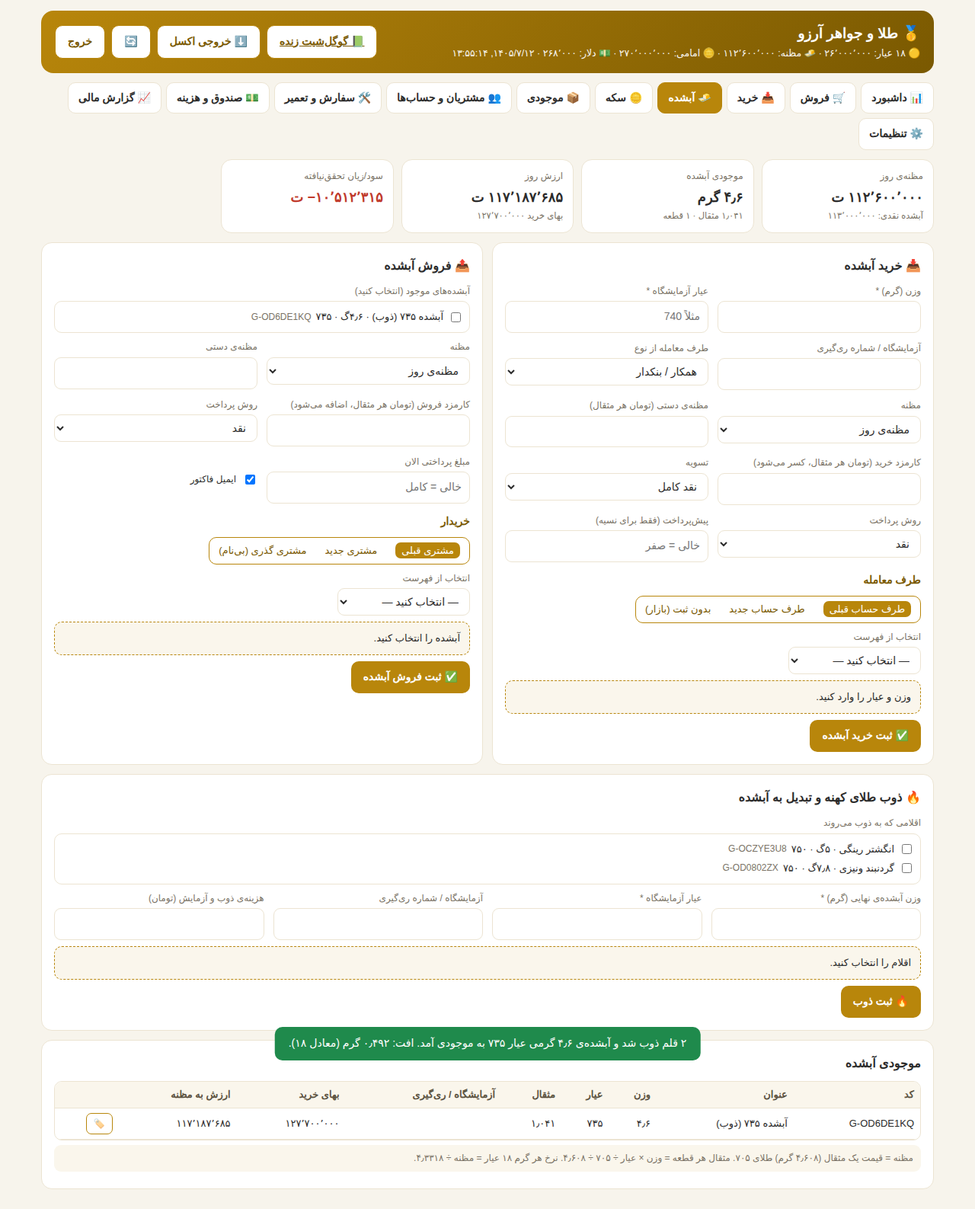
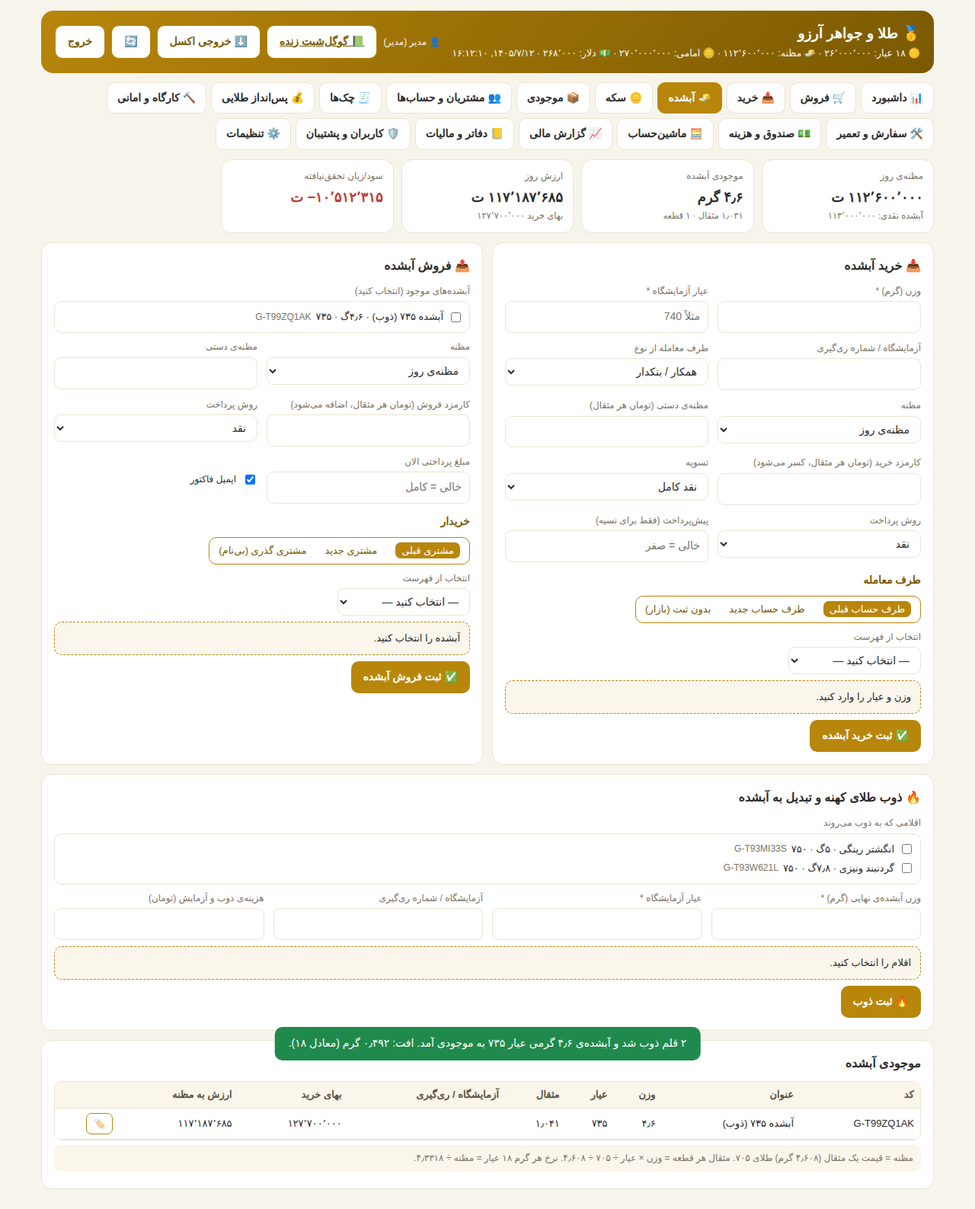
Level 3 v4 docs: users & roles, backup, cheques, savings, portal, workshop, SMS placeholder, owner bot
Claude-Session: https://claude.ai/code/session_015QusSK3znzvYwsVRtgf6jv

diff --git a/projects/goldsmith/level3-gold-shop-management/README.md b/projects/goldsmith/level3-gold-shop-management/README.md
@@ -3,10 +3,11 @@
 > **Goldsmith track · Level 3 (Advanced)** — builds on **[Level 1: Live Price Bot](../level1-live-gold-price-bot)** and **[Level 2: Invoice Assistant](../level2-invoice-and-fee-assistant)**.
 > **مسیر طلافروش · سطح ۳ (پیشرفته)** — ادامهی **[سطح ۱: ربات قیمت لحظهای](../level1-live-gold-price-bot)** و **[سطح ۲: دستیار فاکتور](../level2-invoice-and-fee-assistant)**.
 
-`#n8n` `#gold_shop` `#inventory_management` `#real_profit` `#erp` `#admin_panel` `#google_sheets` `#excel` `#melted_gold` `#gold_coins` `#installments` `#barcode` `#سیستم_مدیریت_طلافروشی` `#مدیریت_موجودی` `#سود_واقعی` `#حساب_همکار` `#آبشده` `#مظنه` `#سکه` `#فروش_اقساطی` `#طلافروش` `#حسابداری_طلا` `#اتوماسیون` `#iran` `#level3`
+`#n8n` `#gold_shop` `#inventory_management` `#real_profit` `#erp` `#admin_panel` `#google_sheets` `#excel` `#melted_gold` `#gold_coins` `#installments` `#barcode` `#cheques` `#gold_savings` `#customer_portal` `#backup` `#roles` `#moadian` `#silver` `#سیستم_مدیریت_طلافروشی` `#مدیریت_موجودی` `#سود_واقعی` `#حساب_همکار` `#آبشده` `#مظنه` `#سکه` `#فروش_اقساطی` `#چک` `#پسانداز_طلایی` `#کارگاه` `#امانی` `#سامانه_مودیان` `#نقره` `#طلافروش` `#حسابداری_طلا` `#اتوماسیون` `#iran` `#level3`
 
 > 🔗 **Shop website | سایت فروشگاه:** **https://n8n.aifardainstitute.ir/webhook/gold-shop** → button **«🔐 پنل مدیریت فروشگاه»**
-> 🔗 **Admin panel | پنل مدیریت:** **https://n8n.aifardainstitute.ir/webhook/gold-admin** (password-protected · با رمز ورود؛ رمز را خود مدیر در «تنظیمات» عوض میکند)
+> 🔗 **Admin panel | پنل مدیریت:** **https://n8n.aifardainstitute.ir/webhook/gold-admin** (username + password · نام کاربری و رمز؛ هر کاربر نقش خودش را دارد)
+> 🔗 **Customer portal | پرتال مشتری:** `…/webhook/gold-customer?c=…&t=…` (personal read-only link · لینک اختصاصی فقطخواندنی)
 >
 > 🔒 **The workflow file is private.** This page shows the schematic, screenshots and docs only.
 > 🔒 **فایل ورکفلو خصوصی است.** این صفحه فقط شماتیک، تصاویر و مستندات را نشان میدهد.
@@ -18,16 +19,21 @@
 ```mermaid
 flowchart LR
   W["🌐 Shop website / سایت<br/>(Level 1 + 2)"] -->|"🔐 button"| P["🖥 Admin panel / پنل مدیریت"]
-  P -->|"password (SHA-256) / رمز"| API["⚙ Admin API"]
+  P -->|"user + password → token / ورود با نقش"| API["⚙ Admin API<br/>roles · audit log · lockout"]
   API --> M["🟡 Live gold price / نرخ روز طلا"]
   API --> L["🧮 Business logic / منطق کسبوکار<br/>buy · sell · return · ledger · real profit"]
-  L --> DB[("🗄 Database / پایگاه داده<br/>inventory · transactions · customers · orders · settings")]
+  L --> DB[("🗄 Database / پایگاه داده<br/>inventory · transactions · customers · orders<br/>cheques · users · audit · closings · settings")]
   L --> GS["📗 Google Sheet (live)<br/>same columns as Excel export"]
   L --> G["📧 Invoice email / ایمیل فاکتور"]
   P --> X["⬇ Excel export (instant) / خروجی اکسل لحظهای"]
   T1["⏰ Daily 09:00"] --> O["🎉 Occasions / مناسبتها"] --> E["📧 Greeting email / ایمیل تبریک"]
   O --> TG1["📱 Owner reminder / یادآوری به مالک"]
   T2["⏰ Daily 21:00"] --> R["📊 Daily report / گزارش روزانه"] --> TG2["📱 Owner Telegram / تلگرام مالک"]
+  T3["⏰ Nightly 23:45"] --> B["💾 Backup JSON / پشتیبان"] --> TG2
+  B --> E
+  DB --> CP["🔗 Customer portal / پرتال مشتری"]
+  DB --> OB["👑 Owner bot (Level 1) / ربات مدیر"]
+  L -.-> SMS["✉ SMS (ready, off) / پیامک (آماده، خاموش)"]
 ```
 
 | 📊 Dashboard / داشبورد | 🧾 Multi-item invoice / فاکتور چندقلمی |
@@ -39,8 +45,14 @@ flowchart LR
 | ![inventory](docs/screenshots/inventory.png) | ![report](docs/screenshots/report.png) |
 | 🧈 **Melted gold (by mazaneh) & melting / آبشده و ذوب** | 🪙 **Coins: stock, avg cost, bubble / سکه** |
 | ![ab](docs/screenshots/ab.png) | ![coin](docs/screenshots/coin.png) |
-| 🏷 **Barcode labels / اتیکت بارکددار** | |
-| ![labels](docs/screenshots/labels.png) | |
+| 🏷 **Barcode labels / اتیکت بارکددار** | 🧾 **Cheques / چکها** |
+| ![labels](docs/screenshots/labels.png) | ![cheques](docs/screenshots/cheques.png) |
+| 💰 **Gold savings / پسانداز طلایی** | 🔨 **Workshop & consignment / کارگاه و امانی** |
+| ![savings](docs/screenshots/savings.png) | ![workshop](docs/screenshots/workshop.png) |
+| 🧮 **Price calculator / ماشینحساب** | 📒 **P&L, journal & tax export / دفاتر و مالیات** |
+| ![calc](docs/screenshots/calc.png) | ![books](docs/screenshots/books.png) |
+| 🛡 **Users, audit log & backup / کاربران و پشتیبان** | |
+| ![security](docs/screenshots/security.png) | |
 
 <sub>Screenshots use sample test data. / تصاویر با دادهی آزمایشی گرفته شدهاند.</sub>
 
@@ -71,11 +83,24 @@ flowchart LR
 - **Live Google Sheet + instant Excel export** — every write is mirrored to a Google Sheet; the Excel button downloads the same tabs and the same Persian column headers (RTL), plus a summary sheet.
 - **Owner-set password** — the owner sets and changes the panel password in *Settings*; only a salted SHA-256 hash is stored.
 
+### New in v4
+- **Users & roles** — owner / accountant / seller (sellers never see costs or profit); signed 12-hour login tokens; 5 wrong passwords → 15-minute lock; full **audit log** of who did what.
+- **Backup** — nightly 23:45 JSON backup to the owner's Telegram (and email); manual download and restore in the panel; secrets are never included.
+- **Cheques** — received / issued cheques with due dates, status (pending · cleared · bounced · endorsed), 7-day due list on the dashboard.
+- **Ounce & mazaneh calculator** — gold price from ounce × dollar, mazaneh ↔ gram, piece price with fee, profit, VAT and stones.
+- **Day close, journal & P&L** — counted cash vs. system, gold difference; double-entry style journal; monthly profit-and-loss statement.
+- **Consignment & workshop** — consignment pieces (paid to the supplier only after sale); gold issued to / received from makers with wage and loss, gold balance per workshop.
+- **Gold savings & customer portal** — customers save grams of gold and redeem later; each customer gets a private read-only link showing balance, savings, installments and recent purchases.
+- **SMS (placeholder)** — Kavenegar-ready messages for invoices, installments and occasions; **off** until an API key is entered in *Settings → SMS*.
+- **Owner Telegram bot** — `گزارش`, `موجودی`, `صندوق`, `بدهکاران`, `حساب <name>`, `اقساط`, `چک` from the Level 1 bot, owner-only.
+- **Tax (Moadian) Excel export** — monthly sales in the gold/jewelry layout with buyer national ID / economic code.
+- **Jewelry certificate**, **silver (925) items**, **charts & slow-moving stock**, **thermal 80 mm printing & label sizes**, **digital scale via Web Serial**, **branches** (per-branch stock and reports).
+
 ### Why a shop pays
 Inventory control and *real* profit are exactly what goldsmiths never know precisely — gold-price swings hide whether the shop earned from selling or just from the market moving. This system separates the two and keeps every customer's and supplier's money **and gold** balance straight.
 
 ### Tech
-n8n (webhooks + schedules) · n8n Data Tables (database) · single-page admin panel served by n8n · Google Sheets · SheetJS (Excel) · free live price feed · Gmail · Telegram.
+n8n (webhooks + schedules) · n8n Data Tables (database) · signed tokens & roles · Web Serial (scale) · single-page admin panel served by n8n · Google Sheets · SheetJS (Excel) · free live price feed · Gmail · Telegram.
 
 ---
 
@@ -103,6 +128,19 @@ n8n (webhooks + schedules) · n8n Data Tables (database) · single-page admin pa
 - **پیام در مناسبتها** — تولد و سالگرد ازدواج (شمسی): ایمیل تبریک ساعت ۹ صبح + یادآوری تلگرامی به مالک.
 - **گوگلشیت زنده + خروجی اکسل لحظهای** — هر ثبت همزمان در گوگلشیت نوشته میشود؛ دکمهی «خروجی اکسل» همان تبها و **همان ستونهای فارسی** (راستبهچپ) را بهعلاوهی برگهی خلاصهی گزارش دانلود میکند.
 - **رمز به انتخاب مدیر** — مدیر رمز پنل را در «تنظیمات» میگذارد و هر وقت بخواهد عوض میکند؛ فقط هش رمز (SHA-256 با نمک) ذخیره میشود.
+
+### تازههای نسخهی ۴
+- **🛡 کاربران و نقشها** — مدیر / حسابدار / فروشنده (فروشنده بها و سود را نمیبیند)؛ ورود با توکن ۱۲ ساعته؛ ۵ بار رمز اشتباه = ۱۵ دقیقه قفل؛ **گزارش فعالیت** همهی کاربران.
+- **💾 پشتیبانگیری** — هر شب ۲۳:۴۵ نسخهی کامل به تلگرام (و ایمیل) مالک؛ دانلود و بازیابی دستی در پنل؛ رمزها هرگز در پشتیبان نیستند.
+- **🧾 چکها** — چک دریافتی و پرداختی با سررسید و وضعیت (در انتظار · وصول · برگشتی · خرج شده)؛ چکهای ۷ روز آینده در داشبورد.
+- **🧮 ماشینحساب انس و مظنه** — نرخ طلا از انس × دلار، تبدیل مظنه به گرم، قیمت قطعه با اجرت، سود، مالیات و سنگ.
+- **📒 بستن صندوق، دفتر روزنامه و سود و زیان** — شمارش صندوق و مقایسه با سیستم، مغایرت طلا؛ دفتر روزنامه؛ صورت سود و زیان ماهانه.
+- **🔨 امانی و کارگاه** — کالای امانی (پول بنکدار بعد از فروش)؛ تحویل طلا به سازنده و دریافت کالا با اجرت و افت؛ ماندهی طلایی هر کارگاه.
+- **💰 پسانداز طلایی و پرتال مشتری** — مشتری گرمگرم طلا پسانداز میکند و بعداً خرید میکند؛ هر مشتری یک لینک اختصاصی فقطخواندنی دارد (مانده، پسانداز، اقساط، خریدها).
+- **✉ پیامک (جای خالی)** — پیام فاکتور، قسط و مناسبت آماده است (کاوهنگار)؛ تا وقتی کلید API در «تنظیمات ← پیامک» وارد نشود **خاموش** است.
+- **👑 ربات مدیر در تلگرام** — `گزارش`، `موجودی`، `صندوق`، `بدهکاران`، `حساب <نام>`، `اقساط`، `چک` از همان ربات سطح ۱، فقط برای مالک.
+- **🧾 خروجی مالیاتی (سامانهی مودیان)** — اکسل فروش ماهانه با الگوی طلا و جواهر و کد ملی/اقتصادی خریدار.
+- **گواهی جواهر**، **نقره (۹۲۵)**، **نمودار و کالای کمگردش**، **چاپ حرارتی ۸۰ میلیمتری و اندازهی اتیکت**، **خواندن ترازوی دیجیتال (Web Serial)**، **چند شعبه** (موجودی و گزارش هر شعبه).
 
 ### «مشتری قبلی / مشتری جدید / مشتری گذری» یعنی چه؟
 - **مشتری قبلی**: از فهرست انتخاب کنید؛ فروش به حساب او ثبت میشود (نسیه، سابقه، مناسبتها).

diff --git a/projects/goldsmith/level3-gold-shop-management/docs/setup.md b/projects/goldsmith/level3-gold-shop-management/docs/setup.md
@@ -8,12 +8,16 @@
 
 | Table | Columns |
 |---|---|
-| `gs_inventory` | `code, title, category, weight#, karat#, weight750#, buyRate18#, makingCost#, buyCost#, buyDay, supplier, status, soldTx, note, stoneCost#, cert` |
-| `gs_transactions` | `code, type, day, dateFa, itemCode, title, weight750#, rate18#, amount#, costBasis#, operatingProfit#, holdingGain#, realProfit#, customerCode, customerName, note, payMethod, vat#, invoice, grams#, category, voided, qty#` |
-| `gs_customers` | `code, name, phone, email, telegramChatId, birthday, anniversary, notes, kind` |
+| `gs_inventory` | `code, title, category, weight#, karat#, weight750#, buyRate18#, makingCost#, buyCost#, buyDay, supplier, status, soldTx, note, stoneCost#, cert, consign, supplierCode, metal, branch, photoUrl, stones` |
+| `gs_transactions` | `code, type, day, dateFa, itemCode, title, weight750#, rate18#, amount#, costBasis#, operatingProfit#, holdingGain#, realProfit#, customerCode, customerName, note, payMethod, vat#, invoice, grams#, category, voided, qty#, feeAmt#, profitAmt#, branch, user` |
+| `gs_customers` | `code, name, phone, email, telegramChatId, birthday, anniversary, notes, kind, nationalId, economicCode, postalCode, address` |
 | `gs_orders` | `code, dateFa, customerCode, customerName, phone, kind, description, weight#, karat#, estimate#, deposit#, dueDate, status, note` |
 | `gs_settings` | `key, value` |
 | `gs_installments` | `code, invoice, customerCode, customerName, phone, n#, count#, dueDate, amount#, paid#, status, paidDate` |
+| `gs_users` 🆕 | `code, name, role, salt, hash, active, branch` |
+| `gs_audit` 🆕 | `code, at, dateFa, time, user, action, summary` |
+| `gs_cheques` 🆕 | `code, dir, partyCode, partyName, bank, number, sayad, amount#, dueDate, status, txCode, dateFa, settledDate, spentTo, note, branch` |
+| `gs_closings` 🆕 | `code, dateFa, time, user, branch, expected#, counted#, diff#, goldSystem#, goldCounted#, goldDiff#, detail, note` |
 | `invoices` | فاکتورهای سایت (سطح ۲) — فقط خوانده میشود |
 
 </div>
@@ -22,25 +26,78 @@
 
 ## گام ۲ — گوگلشیت
 یک Spreadsheet با این تبها (ردیف اول = عنوان ستونها، دقیقاً مثل خروجی اکسل):
-`موجودی` · `تراکنشها` · `مشتریان و همکاران` · `سفارشها` · `اقساط` · `فاکتورهای سایت`
+`موجودی` · `تراکنشها` · `مشتریان و همکاران` · `سفارشها` · `اقساط` · `چکها` · `بستن صندوق` · `فاکتورهای سایت`
 در نودهای «Sheet: …» شناسهی همین فایل را بگذار. ستون مشترک برای بهروزرسانی: `کد`.
 
 ## گام ۳ — Import و کردنشیالها
 - فایل ورکفلو را Import کن.
 - **Google Sheets** ← نودهای «Sheet: …»
 - **Gmail** ← نودهای ایمیل فاکتور و تبریک
-- **Telegram** ← یادآوری مناسبتها و گزارش روزانه
+- **Telegram** ← یادآوری مناسبتها، گزارش روزانه و پشتیبان شبانه
+- نودهای پیامک (کاوهنگار) کردنشیال نمیخواهند؛ کلید را در خود پنل وارد میکنی.
 - منبع قیمت رایگان است و کردنشیال نمیخواهد.
 - Settings ← Timezone = `Asia/Tehran`
 
-## گام ۴ — فعالسازی و رمز
+## گام ۴ — فعالسازی، ورود و کاربران
 1. Save → Publish.
-2. لینک پنل `https://<آدرس-n8n>/webhook/gold-admin` را باز کن و با **رمز اولیه** (در نود Check Key) وارد شو.
-3. تب **⚙ تنظیمات** ← «تغییر رمز ورود»: رمز دلخواه خودت را بگذار. از این لحظه رمز اولیه کار نمیکند.
-4. در همان تب: نام فروشگاه، تلفن، آدرس، ایمیل مالک، Chat ID تلگرام، درصدهای پیشفرض اجرت/سود/مالیات/افت.
+2. لینک پنل `https://<آدرس-n8n>/webhook/gold-admin` را باز کن. نام کاربری: `admin`، رمز: **رمز اولیه** (در نود Check Key) — یا اگر قبلاً رمز گذاشتهای، همان رمز خودت. با اولین ورود، کاربر «مدیر» ساخته میشود.
+3. تب **⚙ تنظیمات** ← «تغییر رمز ورود»: رمز دلخواه خودت را بگذار.
+4. در همان تب: نام فروشگاه، تلفن، آدرس، ایمیل مالک، Chat ID تلگرام، درصدهای پیشفرض، اطلاعات مالیاتی، شعبهها.
+5. تب **🛡 کاربران و پشتیبان** ← کاربر تازه: نام کاربری انگلیسی، نقش و رمز.
+
+| نقش | چه میبیند |
+|---|---|
+| مدیر | همه چیز + کاربران، تنظیمات، بازیابی پشتیبان |
+| حسابدار | همهی ثبتها و گزارشها؛ بدون کاربران و تنظیمات |
+| فروشنده | فروش، خرید، مشتری، اتیکت؛ بهای تمامشده و سود را **نمیبیند** |
+
+- ورود ۱۲ ساعت معتبر است. ۵ بار رمز اشتباه ← آن کاربر ۱۵ دقیقه قفل میشود.
+- همهی کارها در «گزارش فعالیت کاربران» ثبت میشود.
 
 ### رمز را فراموش کردم
-در n8n ← Data Tables ← `gs_settings` ← ردیفهای `admin_hash` و `admin_salt` را پاک کن. رمز اولیه دوباره فعال میشود؛ وارد شو و رمز تازه بگذار.
+- اگر کاربر «مدیر» دیگری داری: او در تب «کاربران» رمز تو را عوض میکند.
+- اگر نه، در n8n ← Data Tables:
+  1. **همهی** ردیفهای `gs_users` را پاک کن.
+  2. در `gs_settings` ردیفهای `admin_hash` و `admin_salt` را پاک کن.
+  3. با `admin` و رمز اولیه (نود Check Key) وارد شو، فوراً رمز تازه بگذار و کاربرهای دیگر را دوباره بساز.
+
+## گام ۴٫۵ — امکانات تازه
+### 💾 پشتیبان
+- هر شب ساعت **۲۳:۴۵** یک فایل JSON کامل به تلگرام مالک (و اگر «ایمیل مالک» پر باشد، به ایمیل) میرود.
+- در تب «کاربران و پشتیبان»: «دانلود پشتیبان» و «بازیابی از فایل».
+- رمزها، کلیدها و کلید پیامک هرگز در پشتیبان نیستند.
+
+### ✉ پیامک (فعلاً خاموش)
+جای آن آماده است. هر وقت خواستی:
+1. در [کاوهنگار](https://kavenegar.com) ثبتنام کن و **API Key** و **شمارهی فرستنده** بگیر.
+2. پنل ← **⚙ تنظیمات ← پیامک**: کلید API و شمارهی فرستنده را بنویس و تیک **«پیامک فعال باشد»** را بزن ← «ذخیره تنظیمات».
+3. از این به بعد پیامک فاکتور، یادآوری قسط، برگشت چک و تبریک تولد خودکار میرود. با برداشتن تیک، دوباره خاموش میشود.
+
+### 🔗 پرتال مشتری
+- تب «مشتریان و حسابها» ← دکمهی **🔗 پرتال** کنار هر مشتری ← لینک را کپی کن و برایش بفرست.
+- مشتری فقط میبیند: مانده، پسانداز طلایی، اقساط، خریدهای اخیر و قیمت روز. چیزی را نمیتواند تغییر دهد.
+- «باطلکردن همهی لینکهای پرتال» همهی لینکهای قبلی را از کار میاندازد.
+
+### 👑 ربات مدیر (همان ربات سطح ۱)
+فقط Chat ID مالک (تنظیمات) جواب میگیرد:
+
+| دستور | جواب |
+|---|---|
+| `گزارش` | فروش، سود واقعی، هزینه و سود خالص امروز |
+| `موجودی` | طلای ملکی به تفکیک عیار، امانی، نقره، سکه |
+| `صندوق` | گردش وجه امروز به تفکیک روش پرداخت |
+| `بدهکاران` | ۱۵ بدهکار بزرگ |
+| `حساب علی` | ماندهی ریالی و طلایی یک مشتری/همکار |
+| `اقساط` | اقساط معوق و ۷ روز آینده |
+| `چک` | چکهای ۷ روز آینده |
+| `مدیر` | راهنما |
+
+### 🧾 خروجی مالیاتی
+تب «دفاتر و مالیات» ← ماه را انتخاب کن ← «دریافت فایل اکسل مالیاتی». اتصال مستقیم به سامانهی مودیان به گواهی امضای فروشگاه نیاز دارد؛ فعلاً فایل را در کارپوشه بارگذاری کن.
+
+### ⚖ ترازو و 🖨 چاپ حرارتی
+- ترازوی دیجیتال با کابل USB/سریال: در فرم خرید دکمهی **⚖** (فقط Chrome یا Edge روی کامپیوتر).
+- چاپ ۸۰ میلیمتری فاکتور و اندازهی اتیکت (۵۰×۳۰، ۴۰×۲۵، …) در «تنظیمات».
 
 ## گام ۵ — لینک در سایت
 در سایت فروشگاه (سطح ۱+۲) دکمهی **«🔐 پنل مدیریت فروشگاه»** به همین لینک وصل است.
@@ -89,6 +146,11 @@ coins    : moving-average cost per coin type; realProfit = price×qty − avg×q
 | buy (gold settlement) | − making | − w750 |
 | receive / deposit | − amount | − grams |
 | pay | + amount | + grams |
+| wsOut (gold to workshop) | | + grams |
+| wsIn (piece from workshop) | − wage | − grams |
+| wsLoss (workshop loss) | | − grams |
+| goldSave (savings) | | − grams |
+| goldRedeem | − amount (if to credit) | + grams |
 
 </div>
 
@@ -98,7 +160,11 @@ coins    : moving-average cost per coin type; realProfit = price×qty − avg×q
 
 | مشکل | راهحل |
 |---|---|
-| «رمز اشتباه است» | رمز را در تنظیمات عوض کردهای؟ اگر فراموش شده، بخش «رمز را فراموش کردم» |
+| «نام کاربری یا رمز اشتباه است» | نام کاربری مدیر `admin` است. اگر رمز فراموش شده، بخش «رمز را فراموش کردم» |
+| «حساب موقتاً قفل است» | ۱۵ دقیقه صبر کن، یا مدیر در `gs_settings` ردیف `lock_<user>` را پاک کند |
+| پیامک نرفت | تیک «پیامک فعال باشد» و کلید API در «تنظیمات ← پیامک»؛ اعتبار حساب کاوهنگار |
+| پشتیبان شبانه نیامد | Chat ID مالک و کردنشیال تلگرام |
+| ترازو وصل نمیشود | فقط Chrome/Edge روی کامپیوتر؛ اجازهی پورت سریال |
 | نرخ روز صفر است | دسترسی سرور به `raw.githubusercontent.com`؛ موقتاً نرخ را «دستی» وارد کن |
 | ردیف در گوگلشیت نیامد | کردنشیال Google Sheets و نام تبها |
 | ایمیل فاکتور/تبریک نرفت | کردنشیال Gmail یا ایمیل مشتری |

diff --git a/README.md b/README.md
@@ -15,7 +15,7 @@
 |---|---|---|
 | ۱ | [Live Gold/Coin/Dollar Price Bot](projects/goldsmith/level1-live-gold-price-bot) | ربات قیمت لحظهای طلا، سکه و دلار + هشدار قیمت |
 | ۲ | [Invoice & Making-Fee Assistant](projects/goldsmith/level2-invoice-and-fee-assistant) | دستیار صدور فاکتور و محاسبهی اجرت (فرم وب) |
-| ۳ | [Gold Shop Management System](projects/goldsmith/level3-gold-shop-management) | سیستم مدیریت طلافروشی: موجودی، خرید و فروش، مشتریان، سود واقعی و گزارش مالی |
+| ۳ | [Gold Shop Management System](projects/goldsmith/level3-gold-shop-management) | سیستم مدیریت طلافروشی: موجودی، خرید و فروش، مشتریان، سود واقعی، چک، پسانداز طلایی، کارگاه، چند کاربر و پشتیبانگیری |
 
 </div>
 
@@ -27,9 +27,10 @@
 |---|---|---|
 | 🌐 | [https://n8n.aifardainstitute.ir/webhook/gold-shop](https://n8n.aifardainstitute.ir/webhook/gold-shop) | سایت طلافروشی: **قیمت لحظهای** (سطح ۱) + **صدور فاکتور** (سطح ۲) + دکمهی **پنل مدیریت** (سطح ۳) در یک صفحه |
 | 🧾 | [https://n8n.aifardainstitute.ir/form/gold-invoice](https://n8n.aifardainstitute.ir/form/gold-invoice) | فرم صدور فاکتور (سطح ۲) |
-| 🖥 | [https://n8n.aifardainstitute.ir/webhook/gold-admin](https://n8n.aifardainstitute.ir/webhook/gold-admin) | پنل مدیریت طلافروشی (سطح ۳) — با رمز ورود 🔐 (رمز را مدیر خودش میگذارد و عوض میکند)؛ آبشده، سکه، فروش اقساطی، اتیکت بارکددار، خروجی اکسل لحظهای |
+| 🖥 | [https://n8n.aifardainstitute.ir/webhook/gold-admin](https://n8n.aifardainstitute.ir/webhook/gold-admin) | پنل مدیریت طلافروشی (سطح ۳) — ورود با نام کاربری و رمز 🔐 (مدیر / حسابدار / فروشنده)؛ چک، پسانداز طلایی، کارگاه و امانی، دفاتر و خروجی مالیاتی، آبشده، سکه، فروش اقساطی، اتیکت بارکددار، خروجی اکسل لحظهای |
 | 📗 | گوگلشیت زنده (خصوصی) | همهی ثبتهای سطح ۲ و ۳ با همان ستونهای خروجی اکسل |
-| 🤖 | ربات تلگرام قیمت (سطح ۱) | پیام `قیمت` به ربات → قیمت طلا، سکه و ارز |
+| 🔗 | پرتال مشتری (سطح ۳) | هر مشتری لینک اختصاصی خودش را دارد: مانده، پسانداز طلایی، اقساط |
+| 🤖 | ربات تلگرام قیمت (سطح ۱) | پیام `قیمت` به ربات → قیمت طلا، سکه و ارز؛ مالک با `گزارش`، `موجودی`، `صندوق` … گزارش فروشگاه را میگیرد |
 
 </div>
 

diff --git a/projects/goldsmith/level1-live-gold-price-bot/README.md b/projects/goldsmith/level1-live-gold-price-bot/README.md
@@ -19,6 +19,7 @@
 - **Telegram query bot** — user sends `قیمت` → replies with live gold, coin, and currency prices (in Toman).
 - **Price alerts** — user sends `هشدار سکه 190000000` → an alert is stored.
 - **Scheduled checker (every 10 min)** — fetches prices, checks all stored alerts, notifies the user when the target is reached, then removes the fired alert.
+- **👑 Owner commands (when linked to Level 3)** — only the owner's Chat ID gets answers to `گزارش`, `موجودی`, `صندوق`, `بدهکاران`, `حساب <name>`, `اقساط`, `چک`; everyone else still gets prices.
 
 ### Why a shop pays for it
 A goldsmith answers "what's the price?" dozens of times a day. This bot answers instantly, keeps the shop's Telegram channel active, and brings customers back with price alerts.
@@ -60,6 +61,7 @@ Symbols used: `GOLD_18K_IRR`, `GOLD_24K_IRR`, `COIN_EMAMI_IRR`, `COIN_BAHAR_IRR`
 - **ربات پاسخگو در تلگرام** — کاربر `قیمت` میفرستد → قیمت لحظهای طلا، سکه و ارز (به تومان) پاسخ داده میشود.
 - **هشدار قیمت** — کاربر `هشدار سکه 190000000` میفرستد → یک هشدار ذخیره میشود.
 - **بررسی خودکار (هر ۱۰ دقیقه)** — قیمتها گرفته میشوند، همهی هشدارها بررسی میشوند، هرکدام که به هدف رسید پیام میرود و هشدار حذف میشود.
+- **👑 دستورهای مدیر (وقتی به سطح ۳ وصل باشد)** — فقط Chat ID مالک جواب میگیرد: `گزارش`، `موجودی`، `صندوق`، `بدهکاران`، `حساب <نام>`، `اقساط`، `چک`؛ بقیهی کاربران همان قیمت را میبینند.
 
 ### چرا مغازهدار پول میدهد؟
 طلافروش روزی دهها بار جواب «قیمت چنده؟» را میدهد. این ربات فوری جواب میدهد، کانال تلگرام مغازه را فعال نگه میدارد و با هشدار قیمت مشتری را برمیگرداند.
